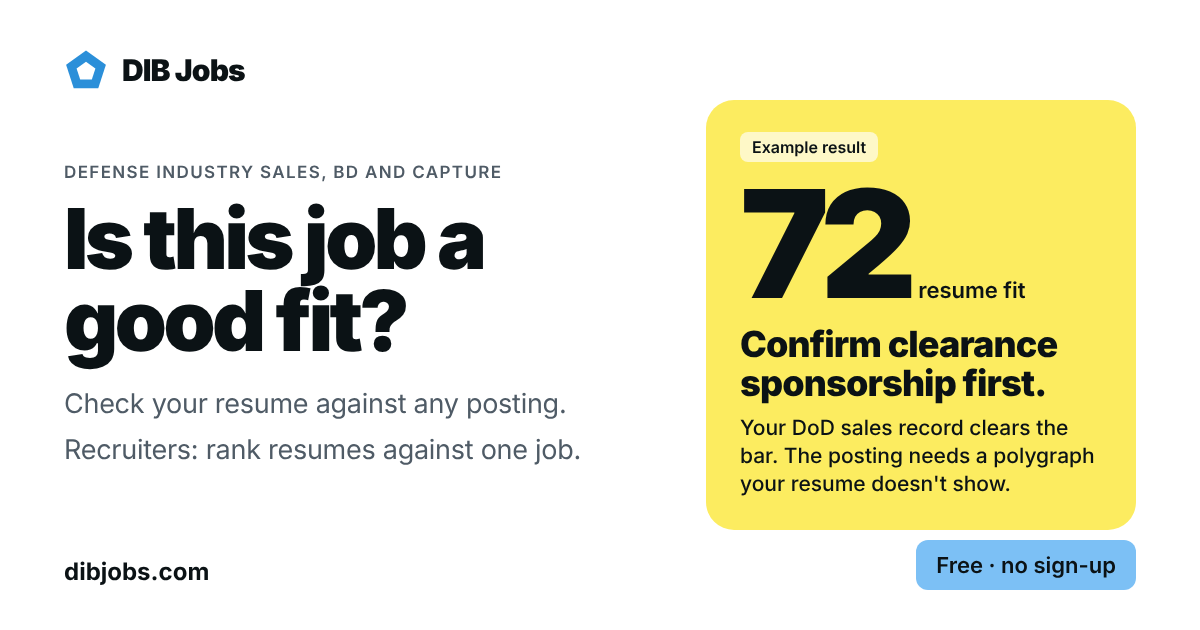
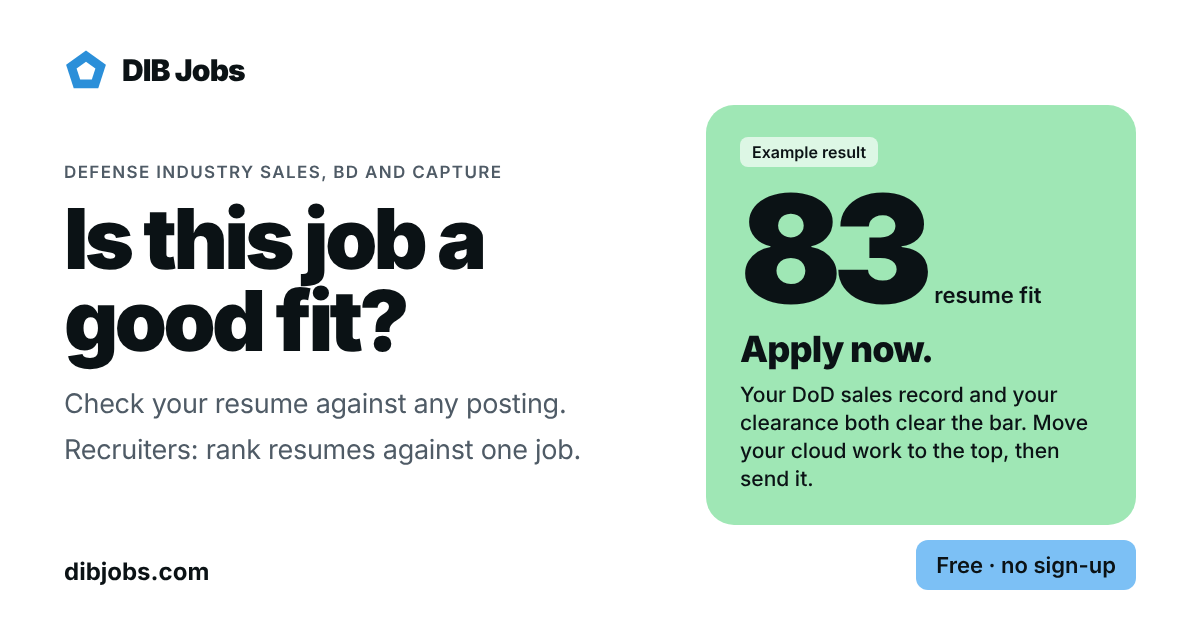
examples

Changed region(s): [[0.5858, 0.1508, 0.9558, 0.8444]]

diff --git a/assets/app.js b/assets/app.js
@@ -598,16 +598,10 @@
         $('results').hidden = mode !== 'ready';
         document.querySelector('.calc').classList.toggle('has-result', mode !== 'empty');
         if (mode === 'empty') {
-            // A first-time visitor sees a compact example of the answer; everyone else gets a plain prompt.
-            const firstVisit = !$('resumeText').value.trim() && !$('jobDescription').value.trim() && !state.tracked.length;
-            $('examplePreview').hidden = !firstVisit;
-            $('emptyPlain').hidden = firstVisit;
-            if (firstVisit) {
-                const r = EXAMPLE_ANALYSIS.recommendation;
-                $('previewScore').textContent = EXAMPLE_ANALYSIS.score;
-                $('previewLabel').textContent = r.label;
-                $('previewHeadline').textContent = r.headline;
-            }
+            $('examplePreview').hidden = true;
+            $('emptyPlain').hidden = false;
+            document.body.classList.remove('example-compact');
+            if (isFirstVisit()) showExamplePreview();
         }
     }
     function showInputs() { /* inputs are always visible in this layout */ }
@@ -826,6 +820,9 @@
         const score = Math.max(0, Math.min(100, Math.round(Number(data.score) || 0)));
         countUp($('scoreNum'), score);
         $('exampleTag').hidden = !state.isExample;
+        $('exampleNote').hidden = !state.isExample;
+        $('exampleLink').hidden = state.isExample;
+        document.body.classList.toggle('example-compact', !!(state.isExample && state.previewOnly));
         const company = knownCompany(data.company);
         $('roleLine').textContent = (data.job_title || 'Role') + (company ? ' at ' + company : '');
         renderRecommendation(data, score);
@@ -923,7 +920,7 @@
 
         // Evidence for the deciding requirement: clearance, when it is what stands in the way
         const c = data.clearance || {};
-        const showEvidence = c.status === 'gap' && !!c.required;
+        const showEvidence = (c.status === 'gap' || c.status === 'meets') && !!c.required;
         $('recEvidence').hidden = !showEvidence;
         if (showEvidence) { $('evidenceRequired').textContent = c.required; $('evidenceCandidate').textContent = c.candidate || 'Not stated'; }
 
@@ -1877,11 +1874,11 @@
     // ======================================================================
     // SAMPLE DATA
     // ======================================================================
-    function loadSampleData(silent) {
-        $('resumeText').value = `JOHN DOE
+    // The made-up resume and posting behind the example.
+    const SAMPLE_RESUME = `JOHN DOE
 Arlington, VA | johndoe@email.com | (703) 555-1234
 
-CLEARANCE: Top Secret
+CLEARANCE: Active TS/SCI
 
 SUMMARY
 Senior Federal Sales Executive with 15+ years driving revenue growth across Department of Defense and Intelligence Community accounts. Proven track record of closing $500M+ in federal IT contracts. Deep relationships with DoD CIOs, program executives, and acquisition leaders. Expert in navigating complex federal procurement cycles and building strategic partner ecosystems.
@@ -1923,7 +1920,7 @@ CERTIFICATIONS
 
 SKILLS
 Federal Sales, Strategic Partnerships, Account Planning, Contract Negotiations, IDIQ/GWAC, FAR/DFARS, Executive Relationships, Pipeline Management, Salesforce, Quota Achievement`;
-        $('jobDescription').value = `Principal DoD Sales Representative
+    const SAMPLE_JD = `Principal DoD Sales Representative
 Amazon Web Services (AWS) - Arlington, VA
 
 About the Role:
@@ -1931,7 +1928,7 @@ AWS is seeking an experienced Principal DoD Sales Representative to drive adopti
 
 Basic Qualifications:
 - 10+ years of enterprise sales experience, with 7+ years selling to DoD customers
-- Active Top Secret/SCI clearance with Full Scope Polygraph
+- Active Top Secret/SCI clearance
 - Track record of exceeding sales quotas of $50M+ annually
 - Experience selling cloud, SaaS, or enterprise software solutions
 - Bachelor's degree required
@@ -1960,6 +1957,10 @@ Compensation: $200,000 - $280,000 OTE (base + variable)
 Location: Arlington, VA (customer site visits required)
 
 Amazon is an Equal Opportunity Employer.`;
+
+    function loadSampleData(silent) {
+        $('resumeText').value = SAMPLE_RESUME;
+        $('jobDescription').value = SAMPLE_JD;
         state.fileFlags = null; state.fileName = ''; state.resumeSource = 'example'; state.exampleResume = $('resumeText').value.trim(); state.exampleJd = $('jobDescription').value.trim();
         setFileStatus('info', silent
             ? '<span class="grow"><strong>This is the example.</strong> Choose New job, then add your own posting and resume to run a real check.</span>'
@@ -1976,36 +1977,36 @@ Amazon is an Equal Opportunity Employer.`;
     const EXAMPLE_ANALYSIS = {
         job_title: 'Principal DoD Sales Representative', company: 'Amazon Web Services (AWS)',
         job_summary: 'Own the full sales cycle for a portfolio of DoD cloud accounts.',
-        score: 72, verdict: 'Good match with gaps',
+        score: 83, verdict: 'Strong match',
         analysis: [
             'Match: DoD quota attainment → 145% of quota in FY23 and 138% in FY22 on a $180M territory',
+            'Match: Clearance → The role requires an active TS/SCI; the resume shows an active TS/SCI',
             'Match: Large federal deals → Closed a $95M multi-year Army agreement and led a $45M Navy IDIQ capture',
             'Match: Partner selling → Built a 25-partner ecosystem driving 40% of pipeline',
             'Match: Procurement vehicles → IDIQ/GWAC and FAR/DFARS experience across Army, Navy, Air Force and DISA',
             'Match: Sales methodology → MEDDIC certified',
-            'Gap: Clearance → The role requires TS/SCI with Full Scope Poly; the resume shows Top Secret',
             'Gap: Cloud infrastructure → Experience is cybersecurity and enterprise software, not AWS, Azure or GCP',
             'Gap: Advanced degree → MBA preferred; the resume shows a B.S.'
         ],
-        tailored_summary: 'Senior federal sales executive with 15+ years selling enterprise software and cybersecurity to the Department of Defense and Intelligence Community. Carries a $180M DoD territory at 145% of quota, with a $95M Army enterprise agreement and a $45M Navy IDIQ among recent wins. Builds partner ecosystems with defense primes and systems integrators and works alongside solutions architects through ATO.',
+        tailored_summary: 'Senior federal sales executive with 15+ years selling enterprise software and cybersecurity to the Department of Defense and Intelligence Community. Carries a $180M DoD territory at 145% of quota, with a $95M Army enterprise agreement and a $45M Navy IDIQ among recent wins. Active TS/SCI. Builds partner ecosystems with defense primes and systems integrators and works alongside solutions architects through ATO.',
         interview_questions: [
             { question: 'Walk me through the largest DoD deal you have closed.', suggested_answer: 'Use the $95M multi-year Army enterprise license agreement: how you found the requirement, who you sold to, how partners were involved, and how long it took.' },
             { question: 'You have sold security and software. How will you sell cloud infrastructure?', suggested_answer: 'Point to the 8 accounts you moved from on-premise to cloud and the ATO work with solutions architects, then be direct that consumption selling is new and say how you will ramp.' },
             { question: 'How do you work with partners without channel conflict?', suggested_answer: 'Describe the 25-partner ecosystem that drives 40% of your pipeline and the joint pursuits with Lockheed Martin, Northrop Grumman and GDIT.' }
         ],
         gap_strategies: [
-            { gap: 'Full Scope Polygraph', strategy: 'Raise it in the first recruiter call rather than waiting for them to find it.', talking_points: 'I hold an active Top Secret. Is the polygraph something you sponsor for the right candidate?' },
-            { gap: 'Cloud infrastructure selling', strategy: 'Tie your software and security wins to cloud adoption, and name the AWS certification you already have.', talking_points: 'Eight of my accounts moved to cloud on my watch, and I worked the ATO side with our architects.' }
+            { gap: 'Cloud infrastructure selling', strategy: 'Tie your software and security wins to cloud adoption, and name the AWS certification you already have.', talking_points: 'Eight of my accounts moved to cloud on my watch, and I worked the ATO side with our architects.' },
+            { gap: 'No MBA', strategy: 'It is listed as preferred, not required. Let the quota record carry it and do not raise it yourself.', talking_points: 'If asked: fifteen years of DoD selling and four straight years over quota.' }
         ],
         keywords: [
             { term: 'DoD', in_resume: true, importance: 'critical' }, { term: 'Quota attainment', in_resume: true, importance: 'critical' },
-            { term: 'TS/SCI', in_resume: false, importance: 'critical' }, { term: 'Full Scope Polygraph', in_resume: false, importance: 'critical' },
+            { term: 'TS/SCI', in_resume: true, importance: 'critical' },
             { term: 'IDIQ', in_resume: true, importance: 'important' }, { term: 'GWAC', in_resume: true, importance: 'important' },
             { term: 'ATO', in_resume: true, importance: 'important' }, { term: 'MEDDIC', in_resume: true, importance: 'important' },
             { term: 'FedRAMP', in_resume: false, importance: 'important' }, { term: 'IL5', in_resume: false, importance: 'important' },
             { term: 'Cloud infrastructure', in_resume: false, importance: 'important' }, { term: 'Territory plan', in_resume: false, importance: 'nice-to-have' }
         ],
-        clearance: { required: 'TS/SCI with Full Scope Poly', candidate: 'Top Secret', status: 'gap', note: 'The posting lists it as a basic qualification.' },
+        clearance: { required: 'Active TS/SCI', candidate: 'Active TS/SCI', status: 'meets', note: 'The posting lists it as a basic qualification.' },
         bullet_rewrites: [
             { original: 'Lead DoD sales territory generating $180M+ annual revenue', improved: 'Own a $180M+ DoD territory across DISA, Army, Navy and Air Force, finishing FY23 at 145% of quota', why: 'Puts quota attainment, the first thing this role screens on, in the opening bullet.' },
             { original: 'Transitioned 8 accounts from on-premise to cloud solutions', improved: 'Moved 8 Army and Intelligence Community accounts from on-premise to cloud solutions', why: 'Names the customers and brings your cloud experience forward.' }
@@ -2013,31 +2014,47 @@ Amazon is an Equal Opportunity Employer.`;
         fit_signals: [
             { signal: 'Annual quota', role_expects: '$50M+', resume_shows: '$180M territory at 145%', status: 'strong' },
             { signal: 'Years selling to DoD', role_expects: '7+', resume_shows: '15+', status: 'strong' },
-            { signal: 'Product sold', role_expects: 'Cloud infrastructure', resume_shows: 'Cybersecurity and enterprise software', status: 'partial' },
-            { signal: 'Clearance', role_expects: 'TS/SCI with Full Scope Poly', resume_shows: 'Top Secret', status: 'missing' }
+            { signal: 'Clearance', role_expects: 'Active TS/SCI', resume_shows: 'Active TS/SCI', status: 'strong' },
+            { signal: 'Product sold', role_expects: 'Cloud infrastructure', resume_shows: 'Cybersecurity and enterprise software', status: 'partial' }
         ],
         questions_to_ask: [
             { question: 'How many reps on this team hit quota last year?', why: 'If few did, the number is a wish, not a plan.' },
             { question: 'Why is this seat open?', why: 'A promotion is good news. A string of departures is not.' },
-            { question: 'Will you sponsor the polygraph, and how long does it usually take?', why: 'It decides whether this job is real for you this year.' }
+            { question: 'Which accounts would I inherit, and what is already in the pipeline?', why: 'It tells you how much of the first-year number you have to build from nothing.' }
         ],
-        recommendation: { action: 'confirm_requirement', label: 'Confirm clearance sponsorship first.', decisive_requirement: 'TS/SCI with Full Scope Poly',
-            headline: 'Your DoD sales record clears the bar. The posting requires a polygraph your resume does not show, so ask whether they will sponsor it before you spend time tailoring.',
-            reasons: ['Your $180M territory at 145% is well past the $50M quota they ask for.', 'Your cloud experience is real but buried in an older role; worth fixing if the clearance question comes back yes.'],
-            next_step: 'Send the recruiter the question below.',
-            recruiter_question: "Hi [Name], I'm interested in the Principal DoD Sales Representative role. I hold an active Top Secret and carry a $180M DoD territory at 145% of quota. The posting lists TS/SCI with Full Scope Poly: do you consider candidates who would need to be processed for it, or is it required on day one? Thank you." },
+        recommendation: { action: 'apply', label: 'Apply now.', decisive_requirement: 'Active TS/SCI',
+            headline: 'Your DoD sales record and your clearance both clear the bar. Move your cloud work to the top of your resume, then send it.',
+            reasons: ['Your $180M territory at 145% is well past the $50M quota they ask for.', 'Your cloud experience is real but buried in an older role. Ten minutes of tailoring fixes that.'],
+            next_step: 'Tailor the two bullets under Your resume, then write to the hiring team.',
+            recruiter_question: "Hi [Name], I'm interested in the Principal DoD Sales Representative role. I hold an active TS/SCI and carry a $180M DoD territory at 145% of quota. Is the team still interviewing, and who is the hiring manager? Thank you." },
         salary_intel: { low: 200, mid: 240, high: 280, pay_source: 'posting', base_source: 'estimate', is_variable_comp: true, base_low: 130, base_high: 160, pay_mix: '55/45', comp_questions: ['What is the quota, and how was it set?', 'How long is the ramp, and is it guaranteed?', 'Are there accelerators past 100%, and is there a cap?', 'Which accounts are in the territory today?'], notes: 'The on-target range is from the posting. The base range is an estimate.' },
-        competition: { level: 'Low', reasoning: 'The polygraph requirement shrinks the pool sharply.' },
+        competition: { level: 'Moderate', reasoning: 'The TS/SCI requirement narrows the pool, but strong DoD sellers will apply.' },
         company_intel: { known: true, type: 'Cloud service provider', size: 'Large', reputation: 'Strong in federal' },
         timeline: { screen_weeks: '1-2', interview_weeks: '3-5', offer_weeks: '6-8', notes: 'Expect a multi-interview loop.' }
     };
+
+    // First visit: show the example answer straight away, with the job and resume boxes left empty and ready.
+    const isFirstVisit = () => !$('resumeText').value.trim() && !$('jobDescription').value.trim() && !state.tracked.length && !Object.keys(getSavedResumes()).length;
+    function showExamplePreview() {
+        state.analysis = EXAMPLE_ANALYSIS;
+        state.isExample = true; state.previewOnly = true;
+        state.resumeText = SAMPLE_RESUME; state.jd = SAMPLE_JD;      // so the example's own tools (Ask AI, tailoring) have something to work on
+        resetGenerated();
+        renderResults(EXAMPLE_ANALYSIS);
+    }
+    function expandExample() {
+        state.previewOnly = false;
+        document.body.classList.remove('example-compact');
+        $('verdict').scrollIntoView({ behavior: 'smooth', block: 'start' });
+        track('example_viewed');
+    }
 
     function showExample() {
         resetAnalyzeUi();
         state.trackedId = null; state.postingUrl = ''; state.linkHelp = null; state.linkedText = ''; renderLinkHelp();
         loadSampleData(true);
         state.analysis = EXAMPLE_ANALYSIS;
-        state.isExample = true;
+        state.isExample = true; state.previewOnly = false;
         state.resumeText = $('resumeText').value.trim();
         state.jd = $('jobDescription').value.trim();
         setResumeMode(false);
@@ -2101,6 +2118,7 @@ Amazon is an Equal Opportunity Employer.`;
         'export-csv': () => exportTrackerCSV(),
         'backup': () => backupData(),
         'restore': () => $('restoreFile').click(),
+        'example-expand': () => expandExample(),
         'suggest-terms': () => suggestSearchTerms(),
         'add-resume': () => { showView('analyze'); setResumeMode(true); $('resumeDrop').focus(); },
         'handoff-check': () => handoffCheck(),

diff --git a/index.html b/index.html
@@ -3,7 +3,7 @@
 <head>
     <meta charset="UTF-8">
     <meta name="viewport" content="width=device-width, initial-scale=1.0">
-    <title>DIB Jobs: should you go after this job? Resume fit check for defense industry roles</title>
+    <title>DIB Jobs: is this job a good fit? Resume fit check for defense industry roles</title>
     <meta name="description" content="Free resume fit check for defense industry sales, BD and capture roles. Add your resume (PDF or Word) and a job posting to see your fit, the clearance question, what it should pay, and what to do next.">
     <meta name="theme-color" content="#ffffff">
     <meta name="color-scheme" content="light">
@@ -19,20 +19,20 @@
     <meta property="og:image:type" content="image/png">
     <meta property="og:image:width" content="1200">
     <meta property="og:image:height" content="630">
-    <meta property="og:image:alt" content="DIB Jobs: Is this job a good fit? An example result showing a 72 resume fit and the advice to confirm clearance sponsorship first.">
+    <meta property="og:image:alt" content="DIB Jobs: Is this job a good fit? An example result showing an 83 resume fit and the advice to apply now.">
     <!-- Twitter / X card -->
     <meta name="twitter:card" content="summary_large_image">
     <meta name="twitter:title" content="DIB Jobs: is this job a good fit?">
     <meta name="twitter:description" content="Check your resume against any defense industry posting: fit, clearance, pay and what to do next. Recruiters can rank candidates against a role. Free, no sign-up.">
     <meta name="twitter:image" content="https://dibjobs.com/og-image.png">
-    <meta name="twitter:image:alt" content="An example DIB Jobs result: 72 resume fit, confirm clearance sponsorship first.">
+    <meta name="twitter:image:alt" content="An example DIB Jobs result: 83 resume fit, apply now.">
     <!-- Icons -->
     <link rel="icon" href="favicon.ico" sizes="48x48">
     <link rel="icon" type="image/svg+xml" href="favicon.svg">
     <link rel="apple-touch-icon" href="apple-touch-icon.png">
     <link rel="manifest" href="site.webmanifest">
     <link rel="preload" href="assets/fonts/inter-latin-wght-normal.woff2" as="font" type="font/woff2" crossorigin>
-    <link rel="stylesheet" href="assets/app.css?v=13">
+    <link rel="stylesheet" href="assets/app.css?v=15">
     <!-- Google tag (gtag.js) -->
     <script async src="https://www.googletagmanager.com/gtag/js?id=G-N10ZLNFZHE"></script>
     <script>
@@ -113,7 +113,7 @@
     <section class="view" id="view-analyze" role="tabpanel" aria-labelledby="tab-analyze">
         <div class="page-intro">
             <p class="eyebrow">Job fit check &middot; for defense industry sales, BD and capture</p>
-            <h1 class="h1">Should you go after this job?</h1>
+            <h1 class="h1">Is this job a good fit?</h1>
             <p class="lede">Add your resume and the job posting. You get a straight answer, the gaps that matter, what it should pay, and what to do next. Your resume file never leaves your browser.</p>
         </div>
 
@@ -149,6 +149,7 @@
                 </div>
 
                 <div id="verdictWrap" class="stack" hidden>
+                    <p class="example-note" id="exampleNote" hidden><strong>This is an example</strong> from a made-up resume and posting. Add your own job and resume to get your answer.</p>
                     <div class="verdict" id="verdict" data-tone="neutral">
                         <p class="eyebrow"><span class="example-tag" id="exampleTag" hidden>Example</span><span id="roleLine"></span></p>
                         <div class="verdict-head">
@@ -172,6 +173,7 @@
                         </div>
                     </div>
 
+                    <button class="btn" type="button" id="exampleExpand" data-action="example-expand">See the full example<svg class="icon"><use href="#i-chevron"/></svg></button>
                     <div class="row" id="actionBar">
                         <button class="btn primary" id="primaryActionBtn" data-action="primary-action"><svg class="icon"><use href="#i-copy"/></svg><span id="primaryActionText">Next step</span></button>
                         <button class="btn" id="saveToTrackerBtn" data-action="save-job"><svg class="icon"><use href="#i-bookmark"/></svg><span>Save to tracker</span></button>
@@ -675,7 +677,7 @@
     <button class="icon-btn" data-action="dismiss-snackbar" aria-label="Dismiss"><svg class="icon"><use href="#i-close"/></svg></button>
 </div>
 
-<script src="assets/files.js?v=13"></script>
-<script src="assets/app.js?v=13"></script>
+<script src="assets/files.js?v=15"></script>
+<script src="assets/app.js?v=15"></script>
 </body>
 </html>

diff --git a/screen/screen.js b/screen/screen.js
@@ -20,6 +20,7 @@
     let sort = { column: 'score', direction: 'desc' };
     let nextId = 1;
     let running = false;
+    const USED_KEY = 'dib_jobs_recruiter_used';
     let isExample = false;       // the built-in example is on screen (made-up job and candidates)
     let snackTimer = null;
 
@@ -260,6 +261,7 @@
             snackbar(`Ranked ${results.length} candidate${results.length > 1 ? 's' : ''}${failed ? `; ${failed} could not be screened` : ''}.`);
             $('resultsCard').scrollIntoView({ behavior: 'smooth', block: 'start' });
         }
+        if (results.length) { try { localStorage.setItem(USED_KEY, '1'); } catch (e) { /* not essential */ } }
         track('recruiter_ranking_complete', { count: results.length });
     }
 
@@ -428,11 +430,12 @@ What we need
             keywords: kw('DoD', 'Secret clearance', 'Air Force') } }
     ];
 
-    function showExample() {
+    // auto: shown on arrival for a first-time visitor. The job box stays empty and the page does not scroll.
+    function showExample(auto) {
         if (running) return;
         if (queue.length && !isExample) return snackbar('Clear your candidates first, then open the example.', 6000);
         isExample = true;
-        $('jobDescription').value = EXAMPLE_JD;
+        $('jobDescription').value = auto === true ? '' : EXAMPLE_JD;
         $('jobFileInfo').textContent = '';
         queue = EXAMPLE_CANDIDATES.map(c => ({ id: nextId++, name: c.name, resumeText: c.resume, status: 'complete', result: { ...EXAMPLE_JOB, ...c.result } }));
         results = queue.map(c => ({ id: c.id, name: c.name, resumeText: c.resumeText, ...c.result }));
@@ -440,8 +443,7 @@ What we need
         document.querySelectorAll('#filterTabs [role="tab"]').forEach(t => { const on = t.dataset.filter === 'all'; t.setAttribute('aria-selected', String(on)); t.tabIndex = on ? 0 : -1; });
         setFileStatus(); showInlineError(''); updateJobCount();
         applySort(); renderQueue(); renderResults(); renderExampleState();
-        $('resultsCard').scrollIntoView({ behavior: 'smooth', block: 'start' });
-        track('recruiter_example');
+        if (auto !== true) { $('resultsCard').scrollIntoView({ behavior: 'smooth', block: 'start' }); track('recruiter_example'); }
     }
 
     // Leave the example. keepJob: the recruiter has started typing their own job over the sample.
@@ -457,6 +459,8 @@ What we need
 
     function renderExampleState() {
         $('exampleBanner').hidden = !isExample;
+        $('queueExampleNote').hidden = !isExample;
+        document.querySelector('.calc').classList.toggle('has-result', isExample);   // on phones, the ranked example leads
         $('exampleTag').hidden = !isExample;
         $('exampleBtn').hidden = isExample || queue.length > 0;
         $('clearQueueBtn').hidden = isExample || queue.length === 0;
@@ -493,7 +497,7 @@ What we need
         'analyze': () => { if (isExample) { clearExample(); $('jobDescription').focus(); return snackbar('Example cleared. Add your job and resumes.'); } analyzeAll(); },
         'clear-job': () => { clearExample(); $('jobDescription').value = ''; $('jobFileInfo').textContent = ''; updateJobCount(); $('jobDescription').focus(); },
         'clear-queue': () => { if (running) return; queue = []; results = []; setFileStatus(); showInlineError(''); $('analyzeText').textContent = 'Rank these candidates'; renderQueue(); renderResults(); },
-        'example': () => showExample(),
+        'example': () => showExample(false),
         'clear-example': () => { clearExample(); $('jobDescription').focus(); window.scrollTo({ top: 0, behavior: 'smooth' }); },
         'add-pasted': () => {
             clearExample();
@@ -510,6 +514,9 @@ What we need
 
     function init() {
         renderQueue(); renderExampleState();
+        // First visit: show the ranked example straight away. Skipped once this browser has run a real ranking.
+        let used = false; try { used = localStorage.getItem(USED_KEY) === '1'; } catch (e) { /* storage blocked: treat as a first visit */ }
+        if (!used) showExample(true);
         initFileDrop();
         updateJobCount();
         $('jobDescription').addEventListener('input', () => { clearExample(true); updateJobCount(); });

diff --git a/screen/index.html b/screen/index.html
@@ -19,20 +19,20 @@
     <meta property="og:image:type" content="image/png">
     <meta property="og:image:width" content="1200">
     <meta property="og:image:height" content="630">
-    <meta property="og:image:alt" content="DIB Jobs: Is this job a good fit? An example result showing a 72 resume fit and the advice to confirm clearance sponsorship first.">
+    <meta property="og:image:alt" content="DIB Jobs: Is this job a good fit? An example result showing an 83 resume fit and the advice to apply now.">
     <!-- Twitter / X card -->
     <meta name="twitter:card" content="summary_large_image">
     <meta name="twitter:title" content="DIB Jobs for recruiters: rank candidates against a role">
     <meta name="twitter:description" content="Drop in resumes and a defense industry job description. Get a ranked shortlist with strengths, gaps and interview questions.">
     <meta name="twitter:image" content="https://dibjobs.com/og-image.png">
-    <meta name="twitter:image:alt" content="An example DIB Jobs result: 72 resume fit, confirm clearance sponsorship first.">
+    <meta name="twitter:image:alt" content="An example DIB Jobs result: 83 resume fit, apply now.">
     <!-- Icons -->
     <link rel="icon" href="../favicon.ico" sizes="48x48">
     <link rel="icon" type="image/svg+xml" href="../favicon.svg">
     <link rel="apple-touch-icon" href="../apple-touch-icon.png">
     <link rel="manifest" href="../site.webmanifest">
     <link rel="preload" href="../assets/fonts/inter-latin-wght-normal.woff2" as="font" type="font/woff2" crossorigin>
-    <link rel="stylesheet" href="../assets/app.css?v=13">
+    <link rel="stylesheet" href="../assets/app.css?v=15">
     <!-- Google tag (gtag.js) -->
     <script async src="https://www.googletagmanager.com/gtag/js?id=G-N10ZLNFZHE"></script>
     <script>
@@ -94,6 +94,7 @@
                         <h2 class="h3">3. Candidates</h2>
                         <span class="label-md muted" id="queueCount">0 candidates</span>
                     </div>
+                    <p class="example-note" id="queueExampleNote" hidden><strong>This is an example.</strong> Four made-up candidates, already ranked against a made-up job. The full ranking is below.</p>
                     <div class="rows queue" id="candidateQueue" aria-live="polite"></div>
                     <p class="field-error" id="inlineError" role="alert" hidden></p>
                     <div class="analyze-bar" id="queueActions">
@@ -208,7 +209,7 @@
     <button class="icon-btn" data-action="dismiss-snackbar" aria-label="Dismiss"><svg class="icon"><use href="#i-close"/></svg></button>
 </div>
 
-<script src="../assets/files.js?v=13"></script>
-<script src="screen.js?v=13"></script>
+<script src="../assets/files.js?v=15"></script>
+<script src="screen.js?v=15"></script>
 </body>
 </html>

diff --git a/assets/app.css b/assets/app.css
@@ -583,3 +583,26 @@ details.boards > summary { font: 900 20px/24px var(--font); letter-spacing: -0.0
 @media (max-width: 879px) { .search-fields.three { grid-template-columns: 1fr 1fr; } .search-fields.three > :first-child { grid-column: 1 / -1; } }
 #starterChips .btn.text { white-space: normal; text-align: left; min-width: 0; }
 #exampleBanner { align-items: center; flex-wrap: wrap; } #exampleBanner .btn { margin: 0; }
+
+/* v14: the example answer is on screen for first-time visitors */
+.example-note { font: 400 15px/22px var(--font); color: var(--muted); }
+.example-note strong { color: var(--ink); font-weight: 700; }
+#exampleExpand { display: none; align-self: flex-start; }
+@media (max-width: 879px) {
+    /* On small screens the example stays compact so the inputs are still on the first screen */
+    body.example-compact #recEvidence, body.example-compact #recReasons, body.example-compact #recNext,
+    body.example-compact #actionBar, body.example-compact #breakdown, body.example-compact #results,
+    body.example-compact #verdictChip, body.example-compact #scoreDelta { display: none !important; }
+    body.example-compact #exampleExpand { display: inline-flex; }
+    body.example-compact .verdict { padding: 16px 18px; }
+    body.example-compact .verdict-num b { font-size: 64px; line-height: 58px; }
+    body.example-compact #recHeadline { font-size: 17px; line-height: 24px; }
+}
+@media print { .example-note, #exampleExpand { display: none !important; } }
+@media (max-width: 879px) {
+    body.example-compact #recHeadline, body.example-compact .example-note { display: none !important; }
+    body.example-compact .verdict-head { flex-wrap: nowrap; align-items: center; gap: 14px; }
+    body.example-compact .verdict-head .verdict-label { flex: 1 1 auto; font-size: 24px; line-height: 26px; margin: 0; }
+    body.example-compact .verdict-num { margin-top: 6px; }
+    body.example-compact #verdictWrap { gap: 10px; }
+}
